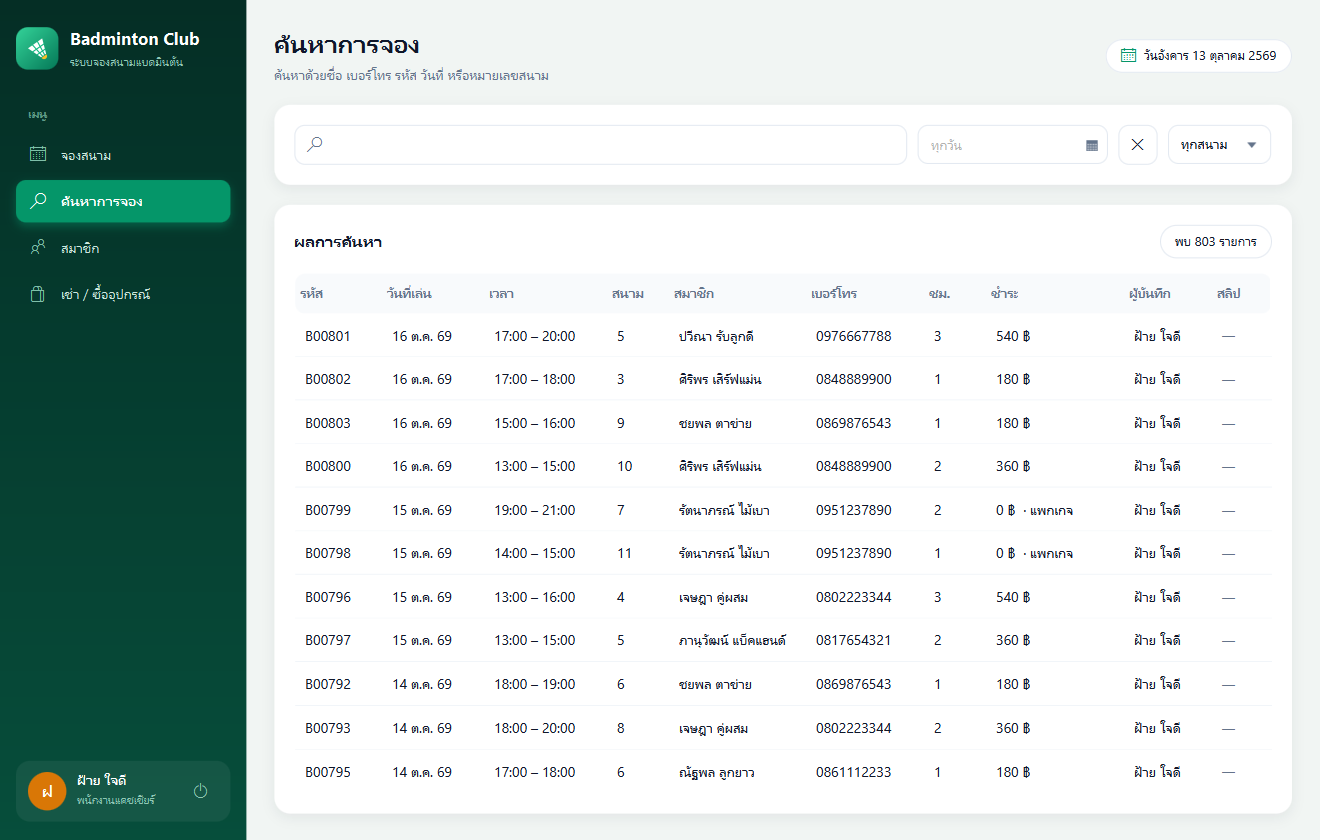
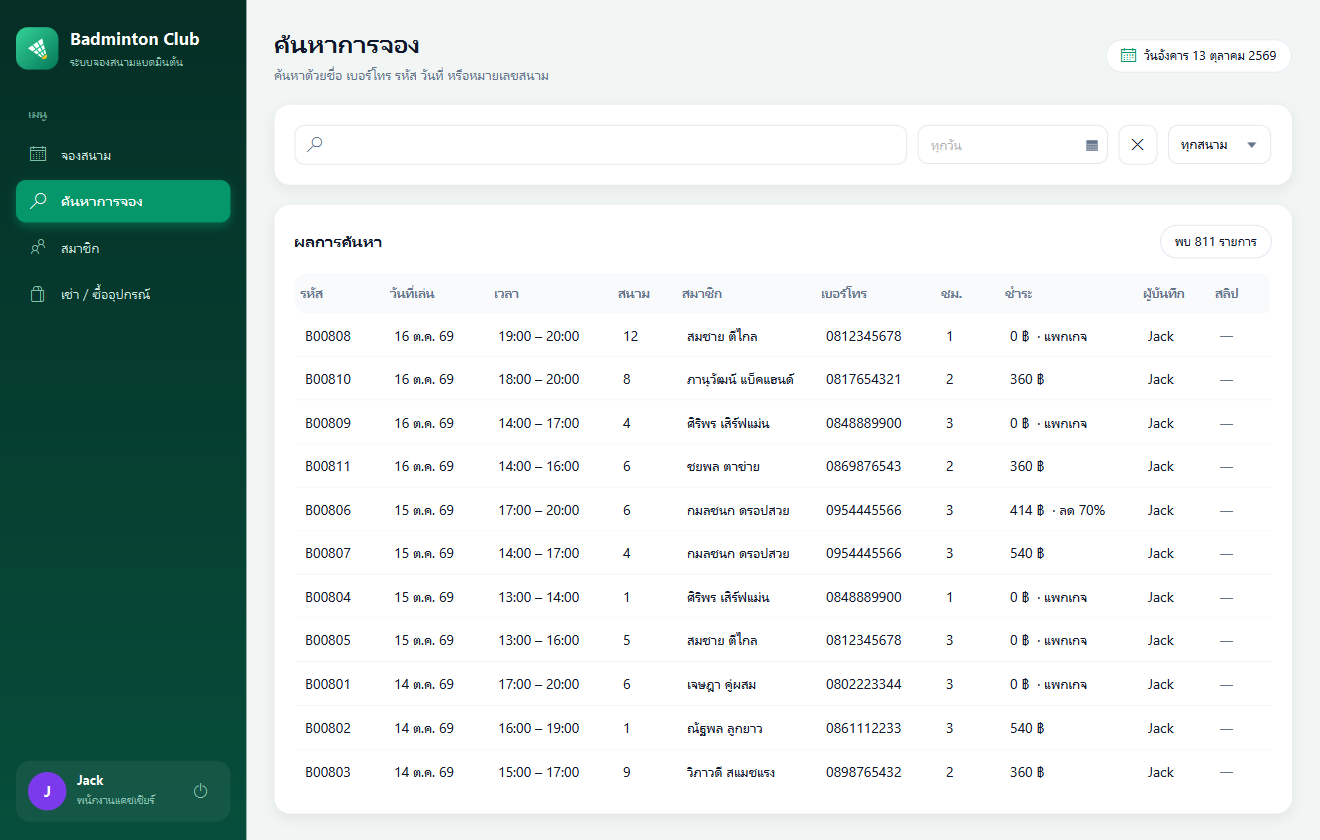
แก้ดรอปดาวน์โปร่งใส, ชื่อพนักงาน Jack/นุ, วันหยุดจันทรคติ 2569
- ComboBox popup ทึบ มีเงา (เดิมเห็นตัวหนังสือด้านหลังทะลุ)
- พนักงานตัวอย่าง: แคชเชียร์ Jack, แอดมิน นุ
- วันหยุดตามจันทรคติและวันหยุดชดเชยปี 2569 + เทสต์
- อัปเดต HANDOVER, skills, README, ภาพหน้าจอ

diff --git a/src/main/resources/com/example/badmintonbookingsystem/style.css b/src/main/resources/com/example/badmintonbookingsystem/style.css
@@ -108,8 +108,6 @@
 }
 .search-box .text-field { -fx-border-width: 0; -fx-background-color: transparent; }
 
-.combo-box-popup .list-view { -fx-background-radius: 10; -fx-border-radius: 10; -fx-border-color: -line; }
-.combo-box-popup .list-cell:filled:hover, .combo-box-popup .list-cell:filled:selected { -fx-background-color: -primary-soft; -fx-text-fill: -ink; }
 
 /* ───────── ตาราง / รายการ ───────── */
 
@@ -141,6 +139,19 @@
 .list-cell { -fx-background-color: transparent; -fx-padding: 8 10; -fx-background-radius: 10; }
 .list-view .list-cell:filled:hover { -fx-background-color: #f8fafc; }
 .list-view .list-cell:filled:selected { -fx-background-color: -primary-soft; }
+
+/* รายการดรอปดาวน์ของ ComboBox ต้องทึบ — กฎ .list-view/.list-cell ด้านบนทำให้โปร่งใส (เคยเห็นตัวหนังสือด้านหลังทะลุ) */
+.combo-box-popup .list-view {
+    -fx-background-color: white;
+    -fx-background-radius: 10;
+    -fx-border-color: -line;
+    -fx-border-radius: 10;
+    -fx-padding: 4;
+    -fx-effect: dropshadow(gaussian, rgba(15, 23, 42, 0.18), 18, 0, 0, 6);
+}
+.combo-box-popup .list-cell { -fx-background-color: white; -fx-text-fill: -ink; -fx-padding: 8 12; -fx-background-radius: 8; }
+.combo-box-popup .list-cell:filled:hover { -fx-background-color: #f0fdf9; }
+.combo-box-popup .list-cell:filled:selected { -fx-background-color: -primary-soft; -fx-font-weight: bold; }
 .list-name { -fx-font-weight: bold; }
 
 .scroll-pane, .scroll-pane > .viewport { -fx-background-color: transparent; -fx-background-insets: 0; -fx-padding: 0; }

diff --git a/src/main/java/com/example/badmintonbookingsystem/model/ClubRules.java b/src/main/java/com/example/badmintonbookingsystem/model/ClubRules.java
@@ -15,17 +15,26 @@ public final class ClubRules {
     public static final int LOYALTY_EVERY = 20;     // จองครบ 19 ชม. → ชั่วโมงที่ 20 ได้ลด
     public static final double LOYALTY_RATE = 0.30; // จ่ายเพียง 30% ของราคาปกติ
 
-    // shortcut: มีเฉพาะวันหยุดที่วันที่ตายตัว ไม่รวมวันหยุดตามจันทรคติ (มาฆบูชา ฯลฯ) — ถ้าต้องการครบให้แอดมินเพิ่มวันหยุดเองได้
+    // วันหยุดที่ตรงวันเดิมทุกปี
     private static final Set<MonthDay> HOLIDAYS = Set.of(
             MonthDay.of(1, 1), MonthDay.of(4, 6), MonthDay.of(4, 13), MonthDay.of(4, 14), MonthDay.of(4, 15),
             MonthDay.of(5, 1), MonthDay.of(5, 4), MonthDay.of(6, 3), MonthDay.of(7, 28), MonthDay.of(8, 12),
             MonthDay.of(10, 13), MonthDay.of(10, 23), MonthDay.of(12, 5), MonthDay.of(12, 10), MonthDay.of(12, 31));
 
+    // shortcut: วันหยุดตามจันทรคติและวันหยุดชดเชยเปลี่ยนทุกปี มีถึงปี 2569 (2026) — ขึ้นปีใหม่ให้เพิ่มตามประกาศ ครม.
+    private static final Set<LocalDate> YEARLY_HOLIDAYS = Set.of(
+            LocalDate.of(2026, 3, 3),   // มาฆบูชา
+            LocalDate.of(2026, 5, 31),  // วิสาขบูชา
+            LocalDate.of(2026, 6, 1),   // ชดเชยวิสาขบูชา
+            LocalDate.of(2026, 7, 29),  // อาสาฬหบูชา
+            LocalDate.of(2026, 7, 30),  // เข้าพรรษา
+            LocalDate.of(2026, 12, 7)); // ชดเชยวันพ่อแห่งชาติ (5 ธ.ค. ตรงวันเสาร์)
+
     private ClubRules() {
     }
 
     public static boolean isHoliday(LocalDate date) {
-        return HOLIDAYS.contains(MonthDay.from(date));
+        return HOLIDAYS.contains(MonthDay.from(date)) || YEARLY_HOLIDAYS.contains(date);
     }
 
     public static boolean isWeekend(LocalDate date) {

diff --git a/src/main/java/com/example/badmintonbookingsystem/service/DemoData.java b/src/main/java/com/example/badmintonbookingsystem/service/DemoData.java
@@ -14,7 +14,7 @@ import static com.example.badmintonbookingsystem.model.ClubRules.*;
  */
 final class DemoData {
 
-    private static final String CASHIER = "ฝ้าย ใจดี";
+    private static final String CASHIER = "Jack";
 
     private DemoData() {
     }
@@ -22,7 +22,7 @@ final class DemoData {
     static Club create() {
         Club club = new Club();
         club.addUser(new Cashier("cashier", "1234", CASHIER));
-        club.addUser(new Admin("admin", "1234", "ปอ ผู้จัดการ"));
+        club.addUser(new Admin("admin", "1234", "นุ"));
 
         List<Member> members = List.of(
                 club.registerMember("สมชาย ตีไกล", "0812345678"),

diff --git a/src/test/java/com/example/badmintonbookingsystem/service/ClubTest.java b/src/test/java/com/example/badmintonbookingsystem/service/ClubTest.java
@@ -30,6 +30,7 @@ class ClubTest {
         assertEquals(10, ClubRules.openHour(SATURDAY));
         assertEquals(20, ClubRules.closeHour(SATURDAY));
         assertEquals(10, ClubRules.openHour(CHULALONGKORN_DAY));
+        assertEquals(10, ClubRules.openHour(LocalDate.of(2026, 3, 3)), "มาฆบูชาเป็นวันหยุดตามจันทรคติ");
     }
 
     @Test

diff --git a/HANDOVER.md b/HANDOVER.md
@@ -31,17 +31,24 @@
 10. **toast ซ้อนทับกัน** → แสดงทีละอัน และตัดบรรทัดเมื่อข้อความยาว
 11. **ชื่อไฟล์สลิปซ้ำหลังรีเซ็ตข้อมูล** → ใส่เวลาในชื่อไฟล์ · **ฟอร์มสมัครสมาชิก** → กด Enter เพื่อสมัครได้
 
+### รอบ 3 (13 ต.ค. 2569)
+- แก้บัค: รายการดรอปดาวน์ของ ComboBox โปร่งใสจนเห็นตัวหนังสือด้านหลัง (เลือกสมาชิก และเลือกสนามในหน้าค้นหา) — เกิดจากกฎ `.list-view/.list-cell` โปร่งใสใน CSS ตอนนี้ `.combo-box-popup` ตั้งพื้นขาวทึบแล้ว
+- เปลี่ยนชื่อพนักงานตัวอย่าง: แคชเชียร์ **Jack** · แอดมิน **นุ** (ล็อกอินยังเป็น cashier/admin รหัส 1234)
+- เพิ่มวันหยุดตามจันทรคติและวันหยุดชดเชยปี 2569 ให้เวลาเปิด-ปิดตรงตามบรีฟ
+- **ไม่เพิ่ม role "สมาชิก/ลูกค้า"** เพราะบรีฟเขียนว่า "ผู้ใช้ระบบ ได้แก่ พนักงานแคชเชียร์และผู้ดูแลระบบ" และ "พนักงานแคชเชียร์เป็นผู้กรอกข้อมูลการจองให้" สมาชิกจึงเป็นข้อมูลในระบบ ไม่ใช่ผู้ใช้ระบบ (เจ้าของงานถามมา ผมแนะนำแบบนี้)
+
 ## การตัดสินใจที่เจ้าของงานเห็นด้วยแล้ว (อย่าเปลี่ยนเองโดยไม่ถาม)
 - ต้องแนบสลิปเฉพาะเมื่อมียอดต้องจ่าย (ถ้าใช้ชั่วโมงแพกเกจทั้งหมดไม่ต้องแนบ)
 - ส่วนลด 70% ให้กับชั่วโมงเงินสดที่ 20, 40, 60, … โดยชั่วโมงแพกเกจไม่นับสะสม
 - ราคาสินค้า: ลูกขนไก่ 80 · เทปพันด้าม 60 · ไม้แบด 1,290 · เช่ารองเท้า/ไม้ 50 บาท/ครั้ง/วัน
 - ชั่วโมงปัจจุบันยังจองได้ (รองรับลูกค้า walk-in)
 - ไม่ใช้ฐานข้อมูล ใช้ไฟล์ `data/club.dat` (ถูก ignore ใน git)
+- ผู้ใช้ระบบมีแค่ 2 บทบาทตามบรีฟ (Cashier, Admin) ส่วนสมาชิกเป็นข้อมูลที่แคชเชียร์สมัครให้
 
 ## งานถัดไป (ถ้ามีเวลา — ยังไม่ได้ทำ)
 - [ ] ยกเลิกการจอง (ตอนนี้ยกเลิกไม่ได้ จึงมีหน้าต่างยืนยันกันพลาดไว้แทน)
 - [ ] การซื้อแพกเกจยังไม่ต้องแนบสลิป (โจทย์ไม่ได้บังคับ ควรถามอาจารย์ก่อน)
-- [ ] วันหยุดตามจันทรคติ (มาฆบูชา ฯลฯ) ยังไม่มี ตอนนี้มีเฉพาะวันหยุดที่วันที่ตายตัวใน `ClubRules.HOLIDAYS`
+- [ ] ขึ้นปี 2570 ให้เพิ่มวันหยุดตามจันทรคติ/ชดเชยใน `ClubRules.YEARLY_HOLIDAYS` (ตอนนี้มีถึงปี 2569)
 - [ ] รหัสผ่านยังเก็บเป็นข้อความธรรมดา (พอสำหรับงานสาธิต)
 
 ## ความเสี่ยงที่ต้องรู้

diff --git a/skills.md b/skills.md
@@ -51,6 +51,7 @@ $env:JAVA_HOME = "C:\Program Files\Java\jdk-25"
 | Maven 3.8 ใช้ surefire ตัวเก่าที่ไม่รู้จัก JUnit 5 | pom ล็อก `maven-surefire-plugin` เป็นเวอร์ชัน 3.2.5 แล้ว |
 | ไฟล์ `.bat` ที่มีภาษาไทยทำให้ cmd อ่านพัง | ข้อความใน `.bat` ใช้ภาษาอังกฤษเท่านั้น และไฟล์ต้องเป็น CRLF (กำหนดไว้ใน `.gitattributes`) |
 | `ScrollPane` / `TableView` มีพื้นหลังเทาจาก modena | ทำให้โปร่งใสไว้แล้วใน style.css |
+| ทำ `.list-view/.list-cell` โปร่งใสแล้วดรอปดาวน์ ComboBox โปร่งใสตามไปด้วย | กฎ `.combo-box-popup` ต้องอยู่ **หลัง** กฎ list ทั่วไป และตั้งพื้นขาว ตรวจด้วยการถ่ายภาพ PopupWindow |
 | ชื่อไทยขึ้นต้นด้วยสระหน้า (เ แ โ ใ ไ) ทำให้ตัวย่อใน avatar ผิด | `Ui.avatar` ข้ามสระหน้าให้แล้ว |
 
 ## 6. วิธีตรวจ UI โดยไม่ต้องเปิดแอปเอง
